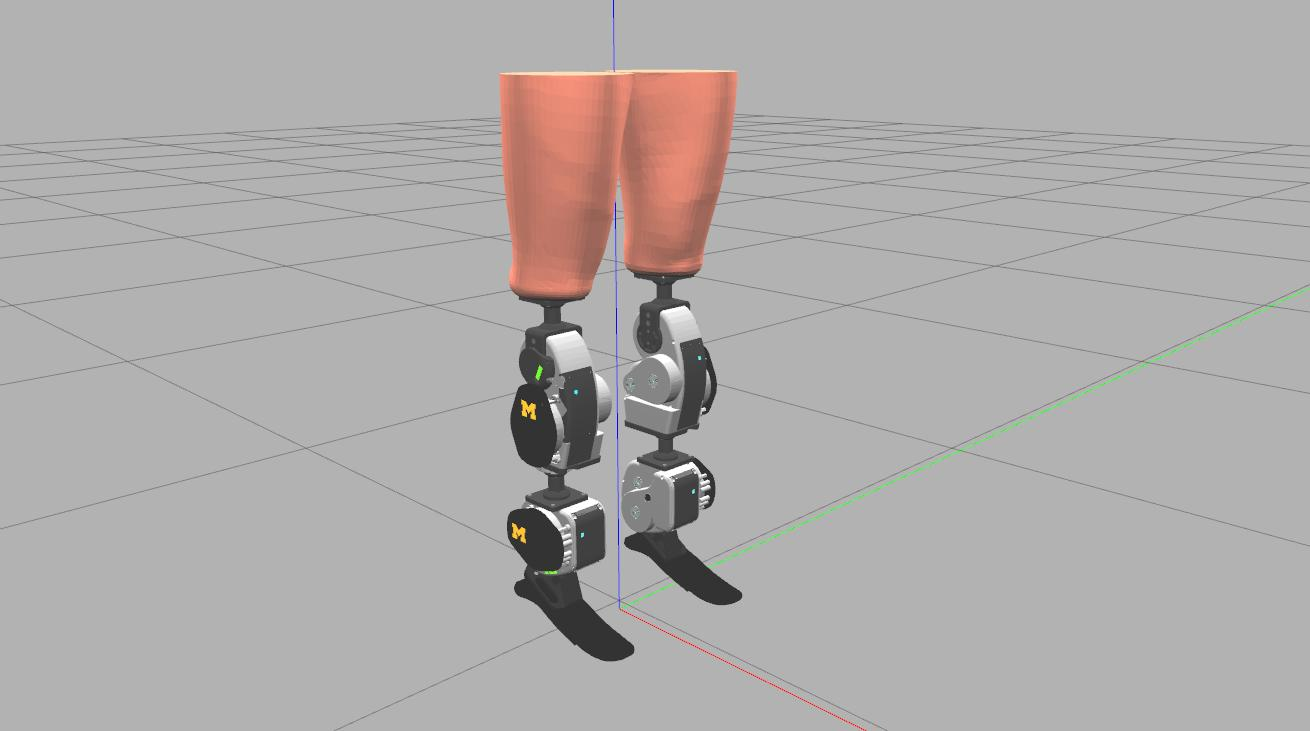
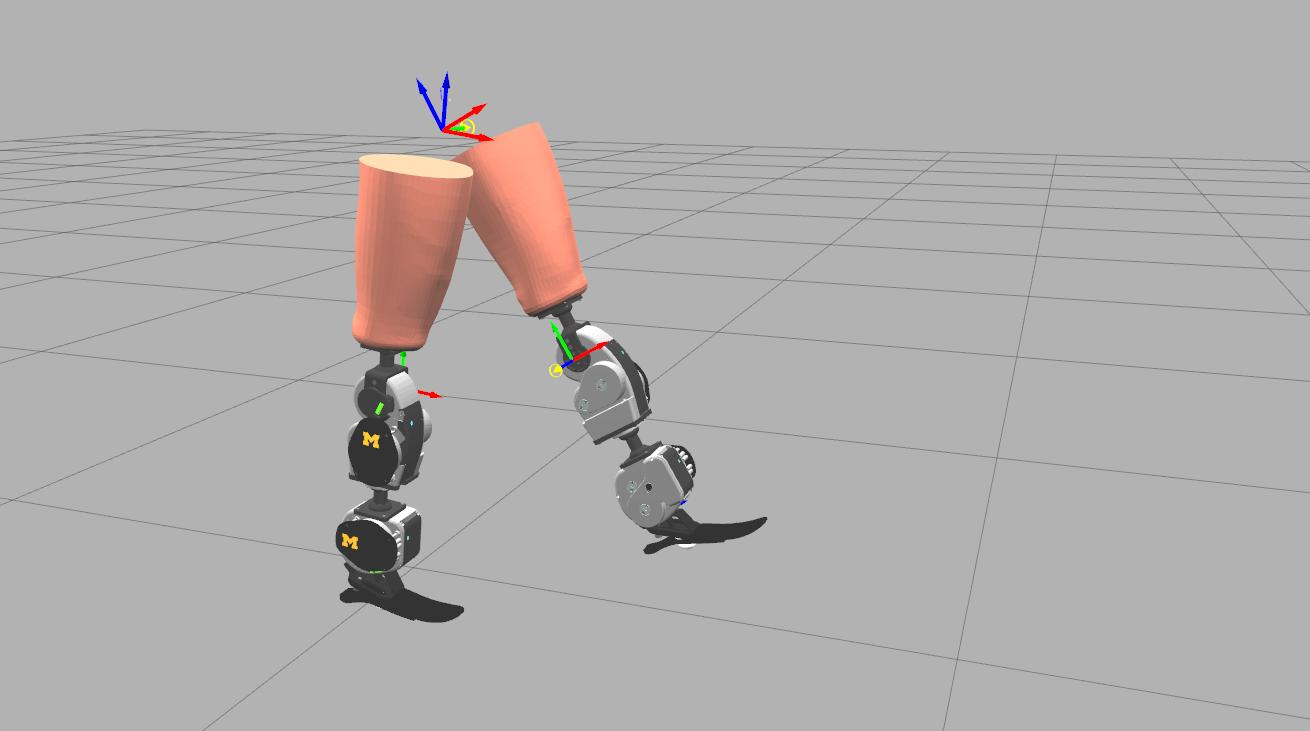
Updated images.

diff --git a/README.md b/README.md
@@ -4,13 +4,13 @@
 [![ROS](https://img.shields.io/badge/ROS-Melodic-blue)](http://wiki.ros.org/melodic)
 [![License](https://img.shields.io/github/license/homebrew-bionics/oslsim)](https://github.com/homebrew-bionics/oslsim/blob/master/LICENSE.md)
 
-<img src="./oslsim_banner.gif" width="800">
+<img src="./oslsim_banner.gif" width="840">
 
-A ROS package that provides the necessary interfaces to simulate the Open-source leg (OSL) proposed by the **Neurobionics Lab at UM** to unify the research field of prosthetic leg controls. OSL is a robust and relatively inexpensive system that can be easily manufactured, assembled, and controlled. OSL is licensed under a [Creative Commons Attribution 3.0 Unported License](https://creativecommons.org/licenses/by/3.0/deed.en_US).
+A ROS package that provides the necessary interfaces to simulate the Open-source leg (OSL) proposed by the **Neurobionics Lab at UM** to unify the research field of prosthetic leg controls. OSL is a robust and relatively inexpensive system that can be easily manufactured, assembled, and controlled.
 
-<img src="./oslsim.jpg" width="800">
+<img src="./oslsim.jpg" width="840">
 
-To know more, visit https://opensourceleg.com/
+OSL is licensed under a [Creative Commons Attribution 3.0 Unported License](https://creativecommons.org/licenses/by/3.0/deed.en_US). To know more, visit https://opensourceleg.com/
 
 ## Getting Started
 ```
@@ -26,4 +26,4 @@ $ roslaunch oslsim main.launch walk:=true
 ```
 *Place your controller logic within the ``oslsim_walker`` node.*
 
-<img src="./oslsim_walk.jpg" width="800">
+<img src="./oslsim_walk.jpg" width="840">
